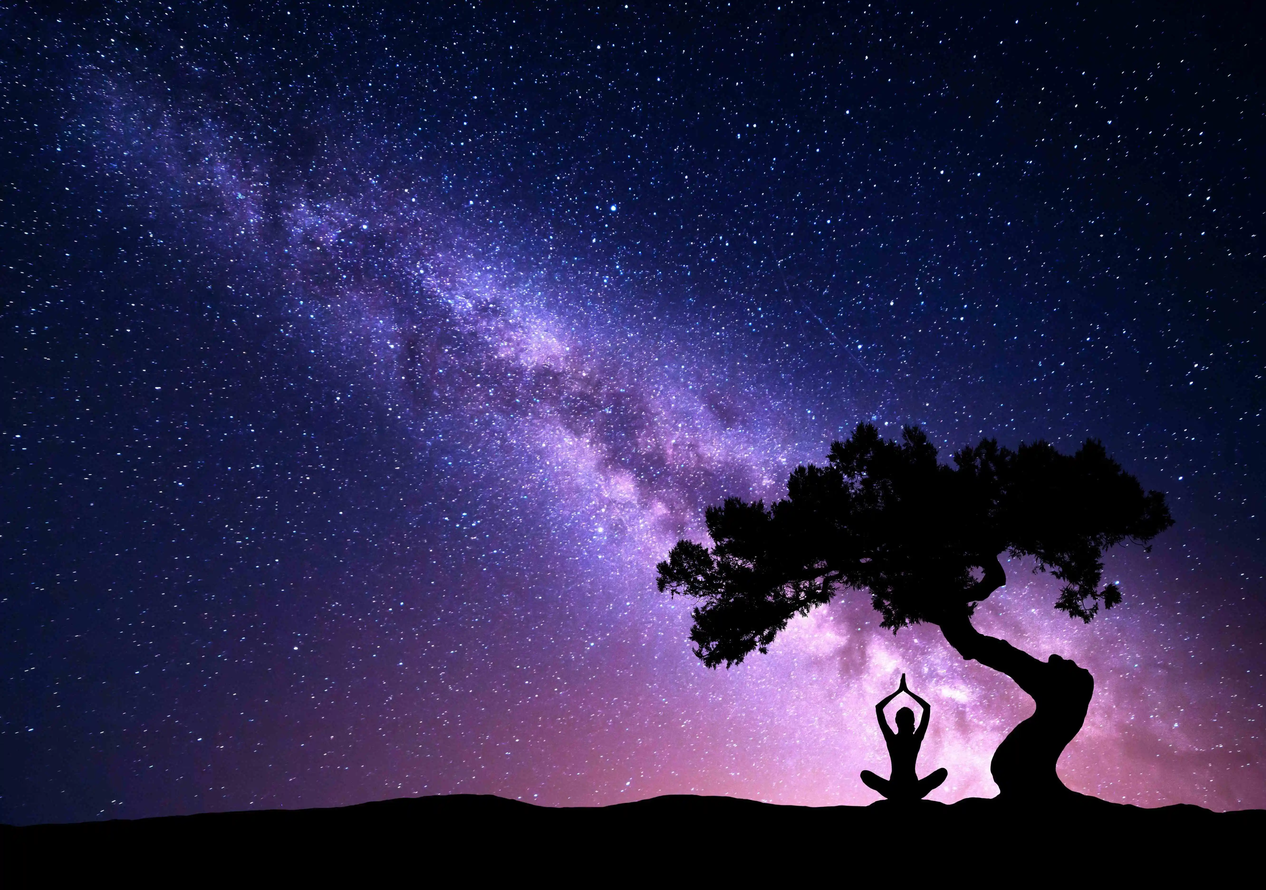
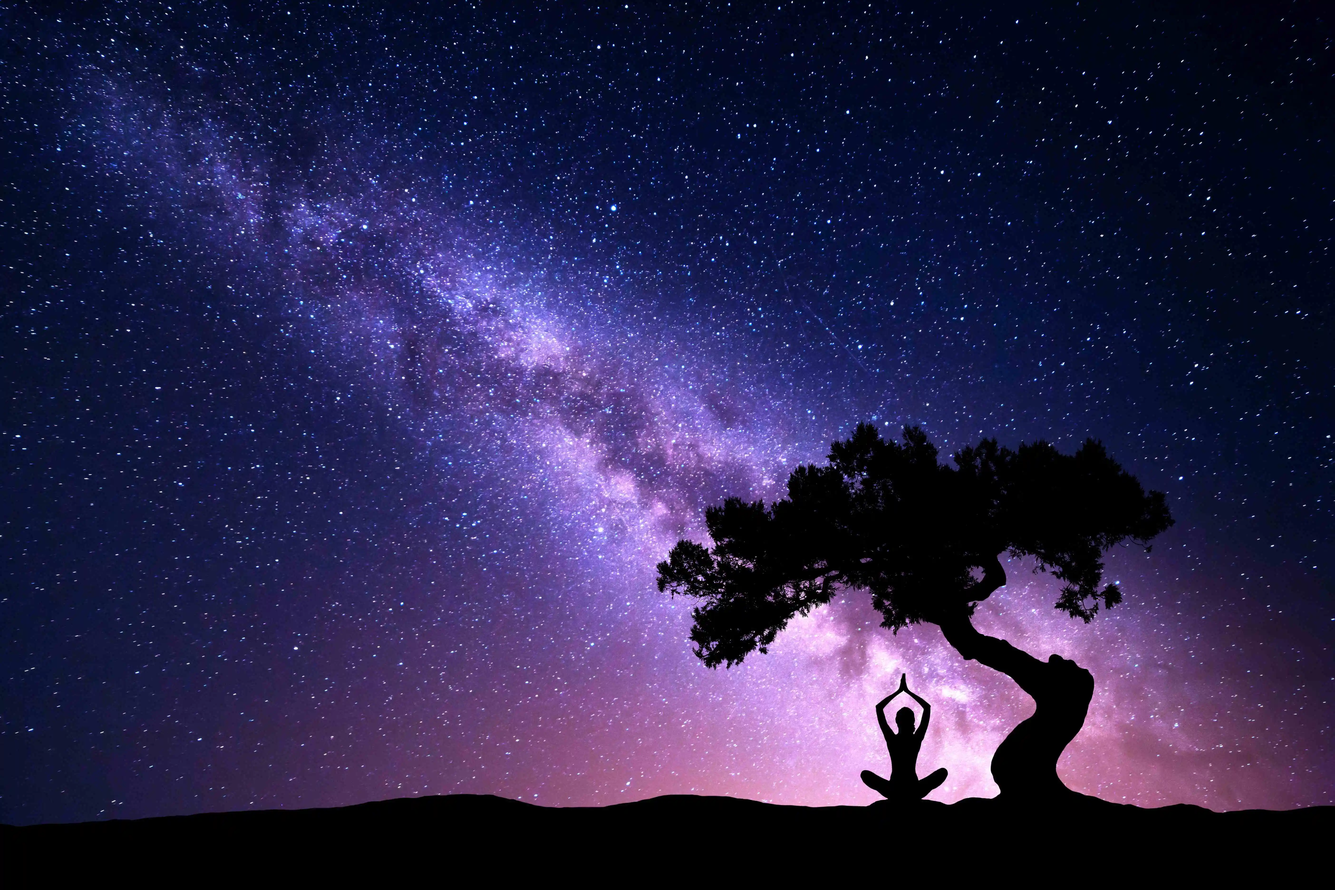
Delete old background image

diff --git a/assets/css/style.css b/assets/css/style.css
@@ -17,7 +17,7 @@ body {
   flex-direction: column;
   color: #ffef0a;
   font-family: "Oxygen", sans-serif;
-  background: url(../images/background_tree_yf_2.webp) no-repeat center
+  background: url(../images/background_tree_yf.webp) no-repeat center
     center/cover;
 }
 
